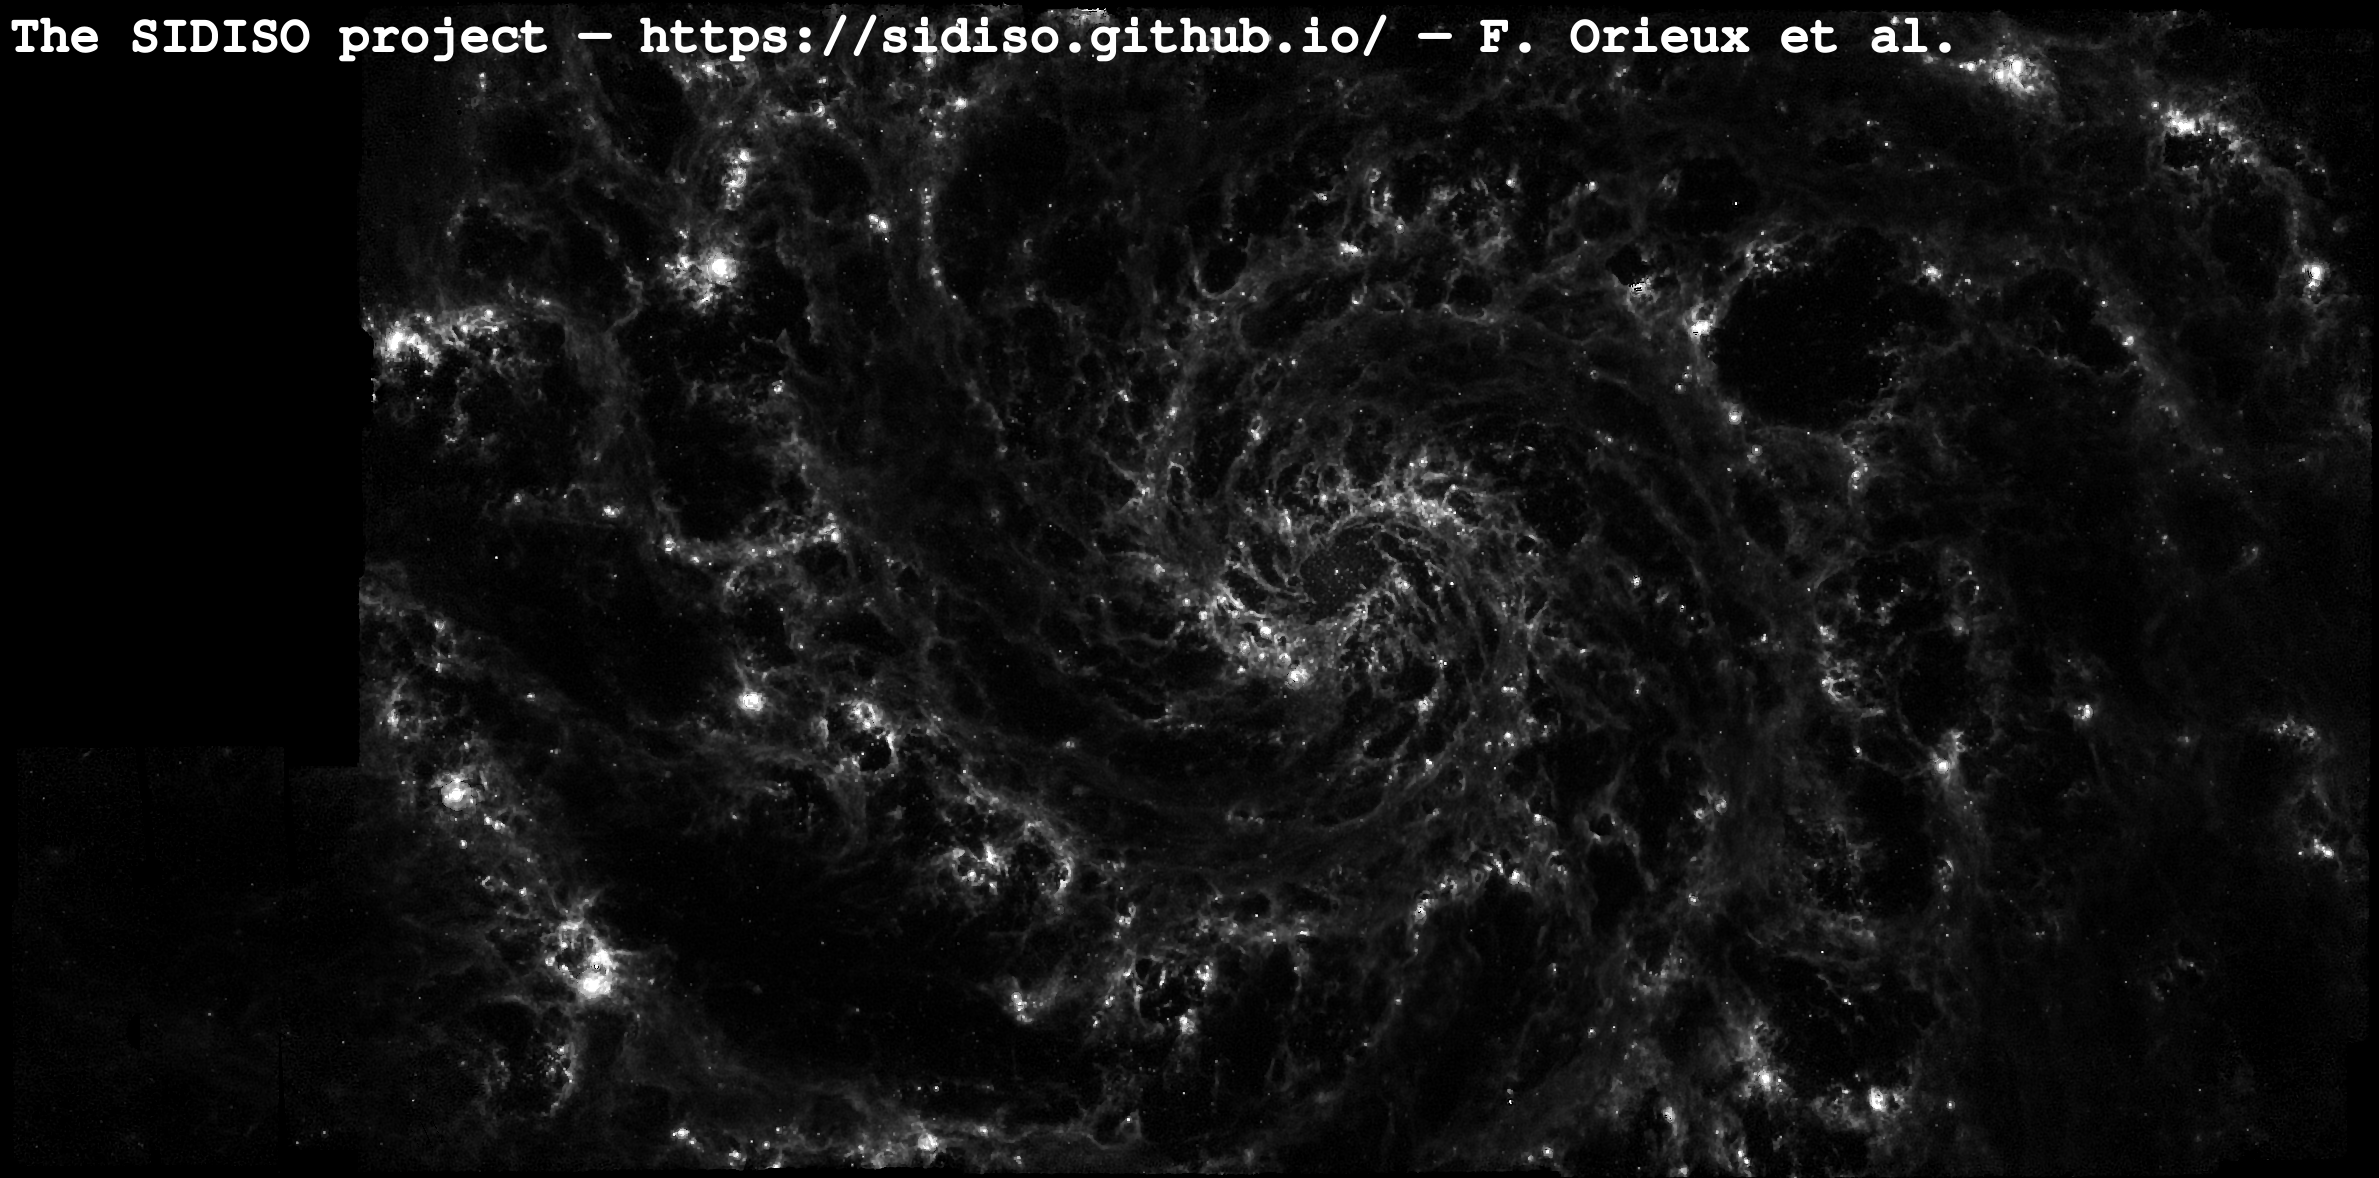
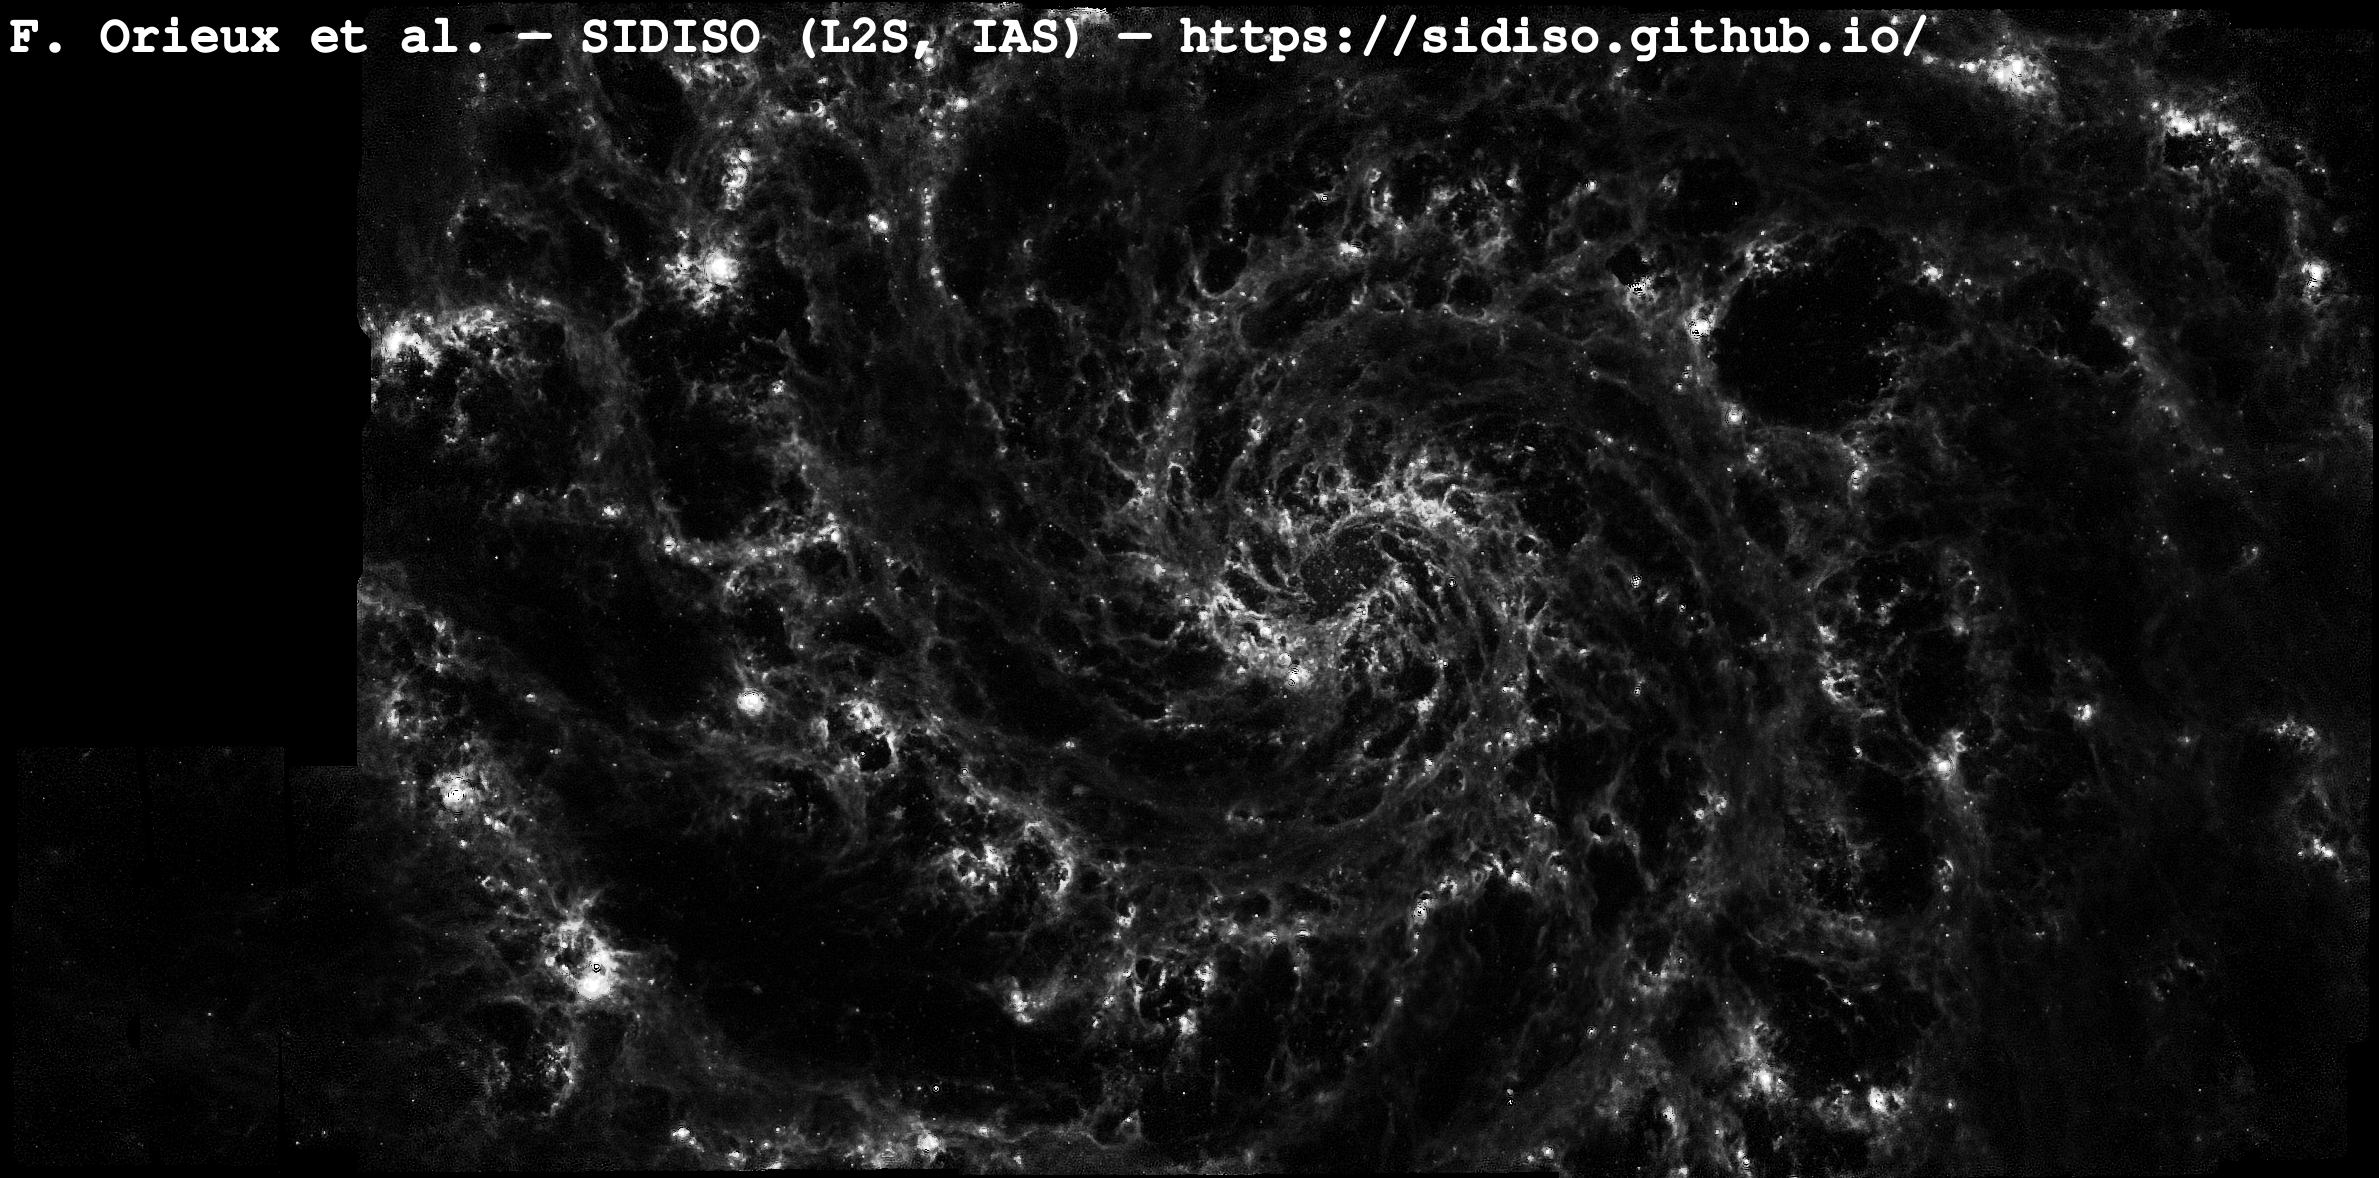
Update image

diff --git a/_posts/2022-09-02-First result from SIDISO project on JWST data !.md b/_posts/2022-09-02-First result from SIDISO project on JWST data !.md
@@ -17,15 +17,15 @@ defaults:
       caption: "NGC628 JWST MIRI data processed by Luigiz"
 ---
 
-After hard work, the SIDISO project is proud to produce the first data processing of the projet from the JWST data. The images have been produced by the `luigiz` algorithm[^1], written by [François Orieux](https://pro.orieux.fr). The algorithm is the results of the research published [here](https://doi.org/10.1109/TCI.2020.2998170), followed by a lot of subsequent developments.
+After hard work, the SIDISO project is proud to produce the first data processing of the projet from the JWST data. The images have been produced by the Super-Resolution `luigiz` algorithm[^1], written by [François Orieux](https://pro.orieux.fr). The algorithm is the results of the research published [here](https://doi.org/10.1109/TCI.2020.2998170), followed by a lot of subsequent developments.
 
-The main objective of such work is to improve the spatial resolution of the images. We will describe later in more details what has been done.
+The main objective of such work is to improve the spatial resolution of the images. We will describe later in more details what has been done. The two images belows are obtained with the F770W, F1000W, F1130W and F2100W filters.
 
 More works are necessary to improve the results, like models evolution, algorithms adaptation, or tests. Raw data will be made available soon. Stay tuned...
 
-{% include figure image_path="/assets/ngc628-raw-gray.png" alt="Grayscale version of JWST MIRI data of NGC628" caption="Grayscale version of JWST MIRI data of NGC628." %}
+{% include figure image_path="/assets/ngc628-raw-gray.png" alt="Mean of the four filters homogenized at the resolution of F2100W filter of JWST MIRI data observing NGC628." caption="Mean of the four filters homogenized at the resolution of F2100W of JWST MIRI data  observing NGC628." %}
 
-{% include figure image_path="/assets/ngc628-deblurred-gray-text.png" alt="Grayscale version of JWST MIRI data of NGC628 processed by SIDISO's algorithm `luigiz`" caption="Grayscale version of JWST MIRI data of NGC628 processed by SIDISO's algorithm `luigiz`." %}
+{% include figure image_path="/assets/ngc628-deblurred-gray-text.png" alt="Mean of the four filters of JWST MIRI data observing NGC628 processed by Super-Resolution SIDISO's algorithm `luigiz`." caption="Mean of the four filters of JWST MIRI data observing NGC628 processed by SIDISO's Super-Resolution algorithm `luigiz`." %}
 
 F. Orieux, on behalf of the SIDISO team.
 
